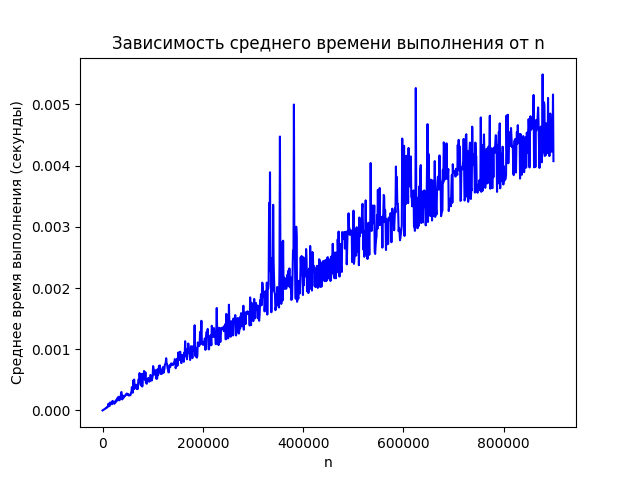
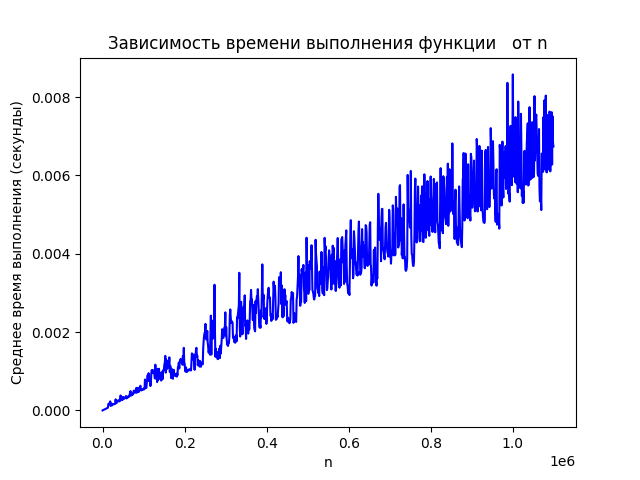
average_func

diff --git a/labs/lab01/lab01_09/average_val.py b/labs/lab01/lab01_09/average_val.py
@@ -5,13 +5,12 @@ import functools
 import matplotlib.pyplot as plt
 
 
-def timing_decorator(ndigits: int, number: int, setup: str) -> typing.Callable:
+def timing_decorator(ndigits: int, number: int) -> typing.Callable:
     def decorator(func: typing.Callable) -> typing.Callable:
         @functools.wraps(func)
         def wrapper(*args, **kwargs) -> float:
             usage_time = timeit.timeit(
                 lambda: func(*args, **kwargs),
-                setup=setup,
                 number=number,
             )
             return round(usage_time / number, ndigits)
@@ -21,28 +20,29 @@ def timing_decorator(ndigits: int, number: int, setup: str) -> typing.Callable:
     return decorator
 
 
-max_n = 900001
+max_n = 1100001
 max_vector = [random.randint(1, 100) for _ in range(max_n)]
 
-n_values = list(range(1, max_n, 900))
+ndigits = 6
+number_of_runs = 5
+
+n_values = list(range(1, max_n, 1100))
 average_times = []
+
+
+@timing_decorator(ndigits, number_of_runs)
+def calculate_average(vector):
+    return sum(vector) / len(vector)
+
 
 for n in n_values:
     print(n)
-    ndigits = 6
-    number_of_runs = 5
-
-
-    @timing_decorator(ndigits, number_of_runs, f"vector = {max_vector[:n]}")
-    def calculate_average(vector):
-        return sum(vector) / len(vector)
-
 
     average_time = calculate_average(max_vector[:n])
     average_times.append(average_time)
 
 plt.plot(n_values, average_times, linestyle='-', color='b')
-plt.title('Зависимость среднего времени выполнения от n')
+plt.title('Зависимость времени выполнения функции   от n')
 plt.xlabel('n')
 plt.ylabel('Среднее время выполнения (секунды)')
 

diff --git a/labs/lab01/lab01_09/const_func.py b/labs/lab01/lab01_09/const_func.py
@@ -29,9 +29,11 @@ number_of_runs = 12
 n_values = list(range(1, max_n, 1100))
 constant_times = []
 
+
 @timing_decorator(ndigits, number_of_runs)
 def constant_function(vector):
-        return 11
+    return 11
+
 
 for n in n_values:
     print(n)
